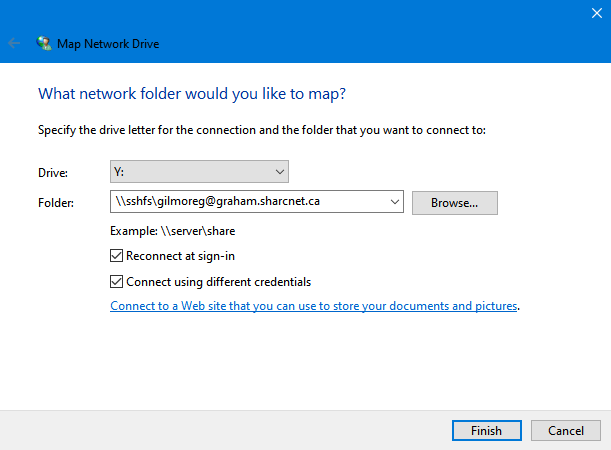
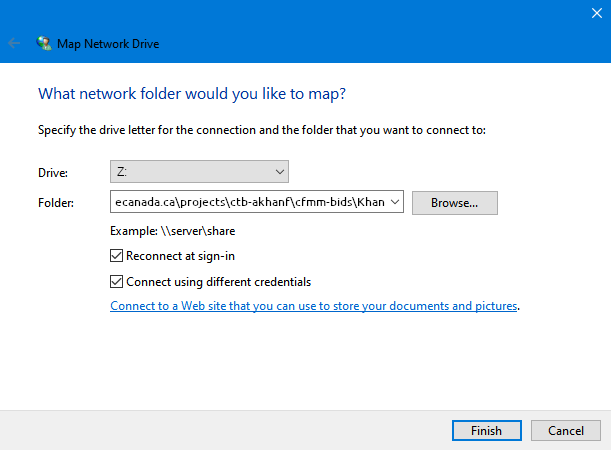
small edit

Changed region(s): [[0.1866, 0.4356, 0.6219, 0.4667], [0.1866, 0.3733, 0.2177, 0.4044]]

diff --git a/docs/operating_systems/windows/sshfs.md b/docs/operating_systems/windows/sshfs.md
@@ -9,17 +9,27 @@ template: overrides/main.html
 
 2. Install the latest stable installer of [SSHFS-Win](https://github.com/billziss-gh/sshfs-win/releases)
 
-3. Open __File Explorer__, right-click on __This PC__ and choose __Map network drive__. Choose a drive to mount at and enter the following in the folder field:
+3. Open __File Explorer__, right-click on __This PC__ and choose __Map network drive__. Choose a drive to mount at and enter the following in the folder field (replace the options in ALL CAPS with the desired settings):
 
     ```console
-    \\sshfs\[your_login_name]@graham.computecanada.ca/projects/rrg-akhanf/cfmm-bids
+    \\sshfs\REMUSER@HOST[\PATH]
     ```
 
-4. Ensure you check the box __Connect using different credentials__ if your computer login password is different from Sharcnet.
+    - `REMUSER` is the remote user (i.e. the user on the SSHFS host whose credentials are being used for access; `gilmoreg`).
+    - `HOST` is the SSHFS host (i.e. `graham.computecanada.ca`).
+    - `PATH` is the full remote path to the directory you want access to (i.e. \projects\ctb-akhanf\cfmm-bids\Khan)
+    
+    so the full command should look something like:
+
+    ```console
+    \\sshfs\gilmoreg@graham.computecanada.ca\projects\ctb-akhanf\cfmm-bids\Khan
+    ```
+
+4. Ensure you check the box __Connect using different credentials__ if your computer login password is different from the remote host. You may be asked to enter your password in a few times, ensure you select `remember my credentials` each time if you want to save your login.
 
     <p align="center"><img width="500" src="img/map_network_sshfs.png"></p>
 
-5. You should then see the network drive in your file explorer!
+5. You should then see the network drive in your file explorer:
 
     <p align="center"><img width="600" src="img/drive_directory.png"></p>
 
